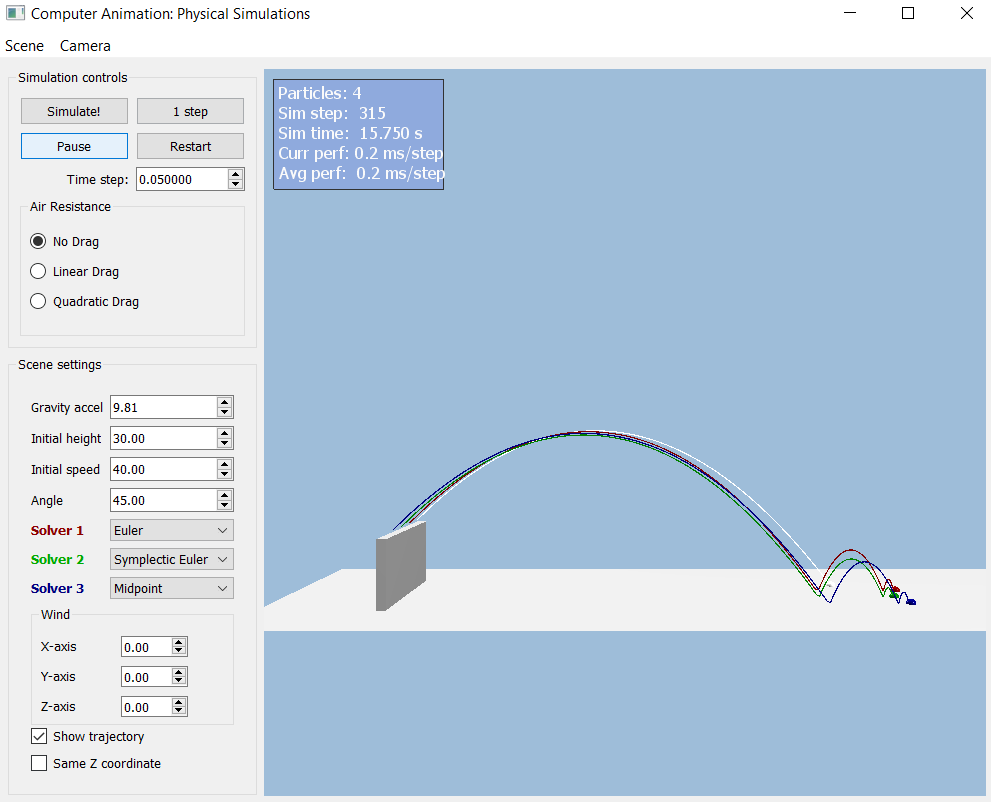
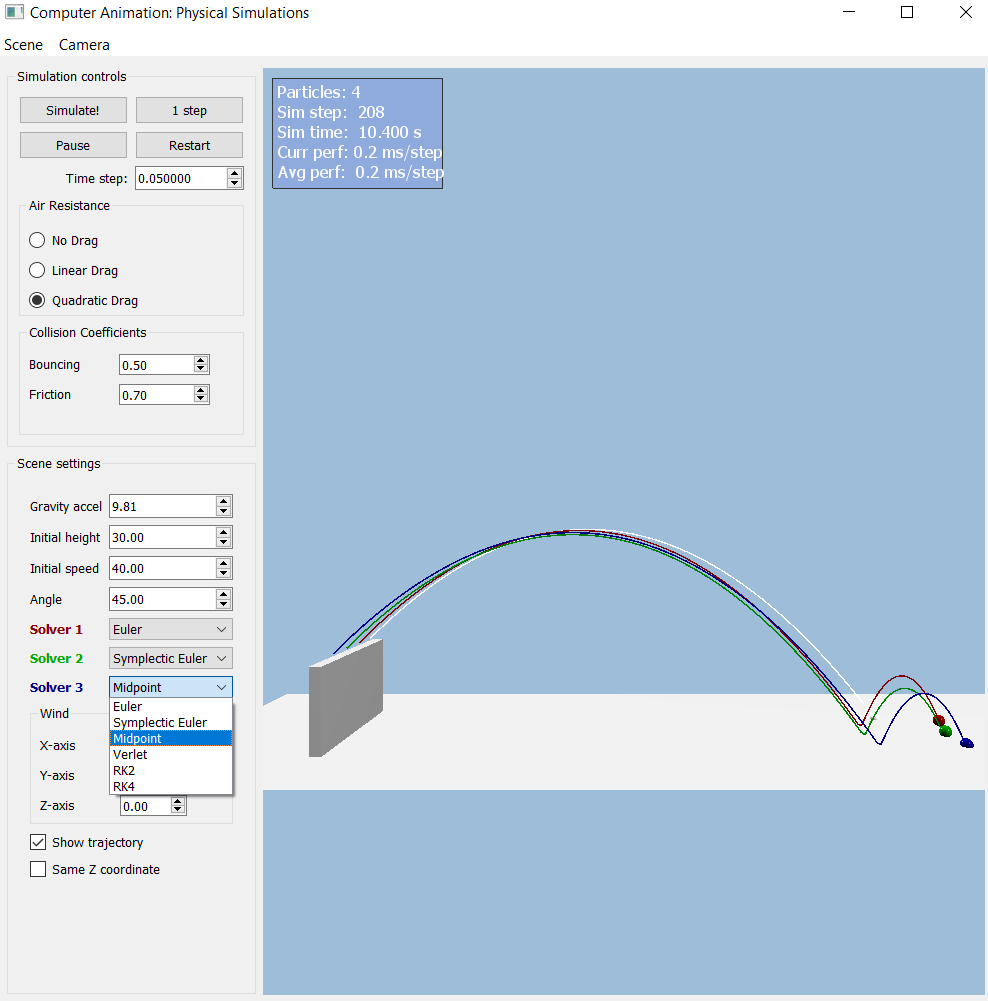
Update README for Lab0

diff --git a/README.md b/README.md
@@ -1,13 +1,27 @@
 # computer-animation-simulation
 
-## **Lab 0: Warm Up**
+## Lab 0: Warm Up
 
-### Integrators Implemented
+![Lab0 Simulation](./images/Lab0.png)
 
-![Integrator List](./images/Integrators%20list.png)
+### Integrators DONE
+The integrator solvers can be chosen from the comboBox next to each SolverN at the UI and pressing restart.
 
 - Symplectic Euler
 - Midpoint
 - Verlet
 - RK2
 - RK4
+
+### Forces DONE
+Wind force can be set in the UI as accelerations in each X,Y,Z axis. As for the air resistance, you can choose between no drag, linear drag, and quadratic drag.
+
+- Wind as constant acceleration force
+- Linear Drag
+- Quadratic Drag
+
+### SceneProjectiles DONE
+
+- Added an additional particle for more testing
+- Simple collision to plane with condition y<=0
+- Added bouncing and friction coefficients editable in UI
